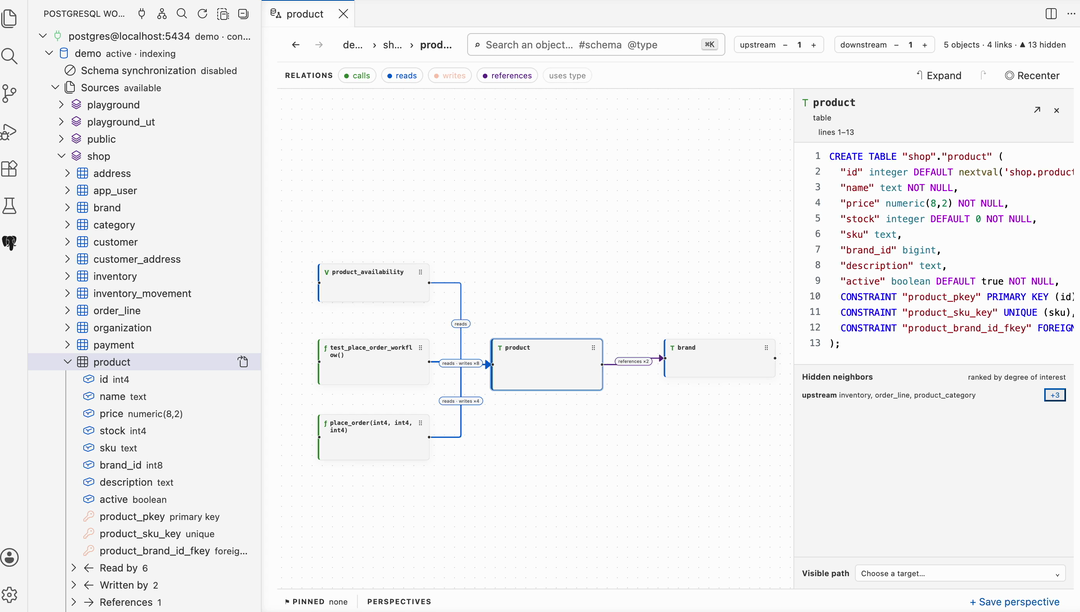
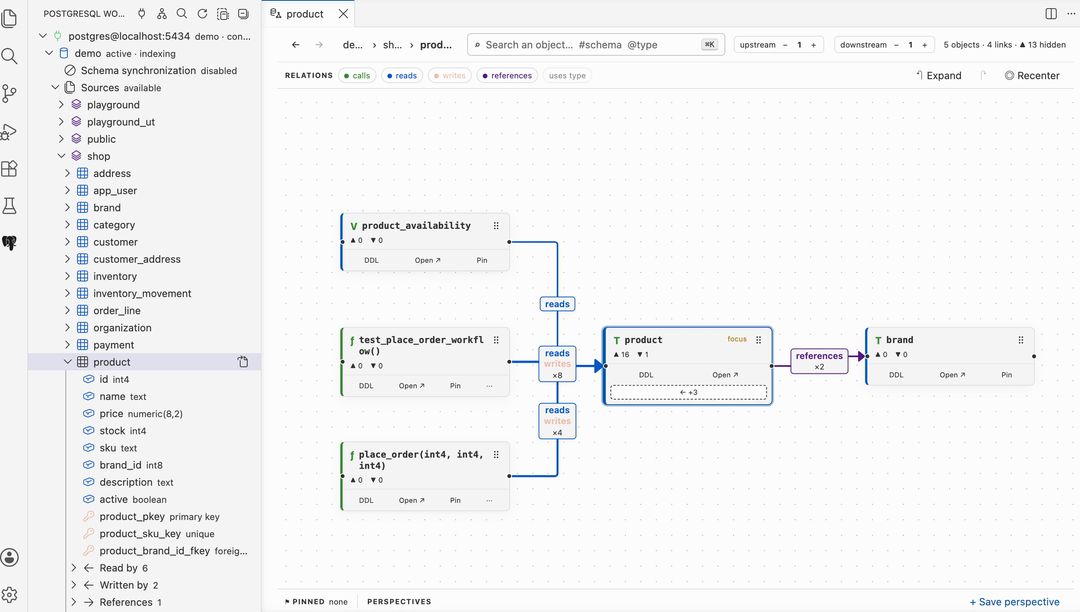
chore: prepare extension 1.1.0

diff --git a/vscode-extension/src/showcase/marketplace.showcase.ts b/vscode-extension/src/showcase/marketplace.showcase.ts
@@ -1,6 +1,6 @@
 import * as assert from "node:assert";
 import { constants } from "node:fs";
-import { access, mkdir, writeFile } from "node:fs/promises";
+import { access, mkdir, realpath, writeFile } from "node:fs/promises";
 import * as net from "node:net";
 import path from "node:path";
 import { TextDecoder } from "node:util";
@@ -16,6 +16,8 @@ import { buildWorkbenchObjects, type WorkbenchObjectModel } from "../workbenchTr
 const SCENE = process.env.POSTGRESQL_WORKBENCH_SHOWCASE_SCENE;
 const CONTROL_DIR = process.env.POSTGRESQL_WORKBENCH_SHOWCASE_CONTROL_DIR;
 const THEME = process.env.POSTGRESQL_WORKBENCH_SHOWCASE_THEME ?? "light";
+const EXPECTED_EXTENSION_PATH = process.env.POSTGRESQL_WORKBENCH_SHOWCASE_EXTENSION_PATH;
+const EXPECTED_EXTENSION_VERSION = process.env.POSTGRESQL_WORKBENCH_SHOWCASE_EXTENSION_VERSION;
 const SERVER = {
   id: "showcase:localhost:5434/demo:postgres",
   name: "postgres@localhost:5434/demo",
@@ -33,11 +35,30 @@ suite("PostgreSQL Workbench Marketplace showcase", function () {
   suiteSetup(async () => {
     assert.ok(SCENE, "POSTGRESQL_WORKBENCH_SHOWCASE_SCENE is required");
     assert.ok(CONTROL_DIR, "POSTGRESQL_WORKBENCH_SHOWCASE_CONTROL_DIR is required");
+    assert.ok(EXPECTED_EXTENSION_PATH, "POSTGRESQL_WORKBENCH_SHOWCASE_EXTENSION_PATH is required");
+    assert.ok(
+      EXPECTED_EXTENSION_VERSION,
+      "POSTGRESQL_WORKBENCH_SHOWCASE_EXTENSION_VERSION is required",
+    );
     assert.ok(await postgresAvailable(), "The PostgreSQL demo is not available on port 5434");
     await forceShowcaseTheme();
 
     const extension = vscode.extensions.getExtension<PlpgsqlExtensionApi>(EXT_ID);
     assert.ok(extension, "PostgreSQL Workbench extension is unavailable");
+    assert.strictEqual(
+      await realpath(extension.extensionPath),
+      await realpath(EXPECTED_EXTENSION_PATH),
+      "The showcase must load PostgreSQL Workbench from the extracted VSIX",
+    );
+    assert.strictEqual(
+      extension.packageJSON.version,
+      EXPECTED_EXTENSION_VERSION,
+      "The showcase must load the configured VSIX version",
+    );
+    process.stdout.write(
+      `Verified showcase extension ${EXT_ID}@${extension.packageJSON.version} ` +
+        `from ${extension.extensionPath}\n`,
+    );
     api = extension.isActive ? extension.exports : await extension.activate();
     await api.connectionManager.store.add(SERVER, "postgres");
     assert.strictEqual(
@@ -229,10 +250,10 @@ function coverageLine(statement: vscode.StatementCoverage): number {
 
 async function debuggerScene(api: PlpgsqlExtensionApi): Promise<void> {
   await resetShopDebugData(api);
-  const extensionUri = vscode.extensions.getExtension(EXT_ID)?.extensionUri;
-  assert.ok(extensionUri);
+  const workspace = vscode.workspace.workspaceFolders?.[0];
+  assert.ok(workspace, "The showcase demo workspace is unavailable");
   const callsite = await vscode.workspace.openTextDocument(
-    vscode.Uri.joinPath(extensionUri, "..", "demo", "debug-me.sql"),
+    vscode.Uri.joinPath(workspace.uri, "debug-me.sql"),
   );
   await vscode.window.showTextDocument(callsite, { preview: false, preserveFocus: false });
 

diff --git a/RELEASING.md b/RELEASING.md
@@ -22,15 +22,15 @@ Marketplace job.
 
 ### Triggers
 
-CI runs automatically for pull requests targeting `main`. It does not run
-automatically for direct pushes to `main`. It can also be started manually:
+CI runs automatically for pushes to `main` and pull requests targeting `main`.
+It can also be started manually:
 
 ```bash
 gh workflow run ci.yml --ref main
 ```
 
-If changes reached `main` without a pull request, run CI manually and wait for
-all jobs to succeed before creating a release tag.
+Wait for all jobs on the exact release-preparation commit to succeed before
+creating a release tag.
 
 ### Jobs
 
@@ -50,9 +50,13 @@ release and artifact-handling actions.
 | `Biome` | Installs root dependencies and runs `npm run check`. |
 | `Type Check` | Type-checks the DAP server and the VS Code extension. |
 | `Unit Tests` | Runs the root Vitest suite. |
-| `Integration Tests` | Starts `galien0xffffff/postgres-debugger:17`, loads the E2E and demo fixtures, runs the DAP tests and the real VS Code integration suite, then activates the extension and Code Moniker in a focused smoke test on the minimum supported VS Code 1.109.0. |
+| `DAP Integration` | Starts `galien0xffffff/postgres-debugger:17` and runs the real PostgreSQL DAP and Workbench integration suite. |
+| `VS Code Technical` | Runs the extension-host integration suite in a real VS Code instance. |
+| `Playwright` | Runs the end-user Workbench, notebook, and debugger journeys in VS Code and retains failure evidence. |
+| `VS Code Compatibility` | Activates the extension and Code Moniker on the minimum supported VS Code 1.109.0. |
 | `EnterpriseDB pldebugger Compatibility` | Builds and tests against the pinned unpatched EnterpriseDB pldebugger implementation. |
-| `Package Artifacts` | Builds the four native production VSIX files, validates their contents and executables, smoke-tests the standalone npm DAP with the matching Code Moniker native package, and uploads one target-specific VSIX artifact per platform. |
+| `Smoke standalone DAP` | Packs, installs, and smoke-tests the standalone npm DAP on Linux, macOS ARM64/x64, and Windows x64. |
+| `Package extension` | Builds, validates, and smoke-tests one target-specific VSIX for Linux x64, macOS ARM64/x64, and Windows x64. |
 
 The integration job uploads VS Code logs even when tests fail. Download the
 `vscode-test-logs` artifact from the failed workflow run before rerunning a
@@ -78,10 +82,10 @@ Start from a clean `main` synchronized with `origin/main`.
 1. Update the extension version and its lockfile:
 
    ```bash
-   npm --prefix vscode-extension version 1.0.1 --no-git-tag-version
+   npm --prefix vscode-extension version 1.1.0 --no-git-tag-version
    ```
 
-2. Add a dated, non-empty `## [1.0.1]` section to
+2. Add a dated, non-empty `## [1.1.0]` section to
    `vscode-extension/CHANGELOG.md`. The release workflow extracts GitHub Release
    notes from this exact heading.
 3. Update user documentation when behavior, requirements, commands, or
@@ -97,6 +101,7 @@ Start from a clean `main` synchronized with `origin/main`.
    npm run test:e2e
    npm run test:e2e:legacy
    npm --prefix vscode-extension run test:min-vscode
+   npm --prefix vscode-extension run test:acceptance
    npm run package:ext
    ```
 
@@ -116,7 +121,7 @@ Install the local artifact into a clean VS Code profile:
 
 ```bash
 code --install-extension \
-  vscode-extension/postgresql-workbench-1.0.1-darwin-arm64.vsix \
+  vscode-extension/postgresql-workbench-1.1.0-darwin-arm64.vsix \
   --force
 ```
 
@@ -131,8 +136,8 @@ Create an annotated tag whose version exactly matches
 `vscode-extension/package.json`:
 
 ```bash
-git tag -a extension-v1.0.1 -m "PostgreSQL Workbench 1.0.1"
-git push origin main extension-v1.0.1
+git tag -a extension-v1.1.0 -m "PostgreSQL Workbench 1.1.0"
+git push origin main extension-v1.1.0
 ```
 
 Pushing the tag starts the `Extension Release` workflow. Its jobs:

diff --git a/docs/MARKETPLACE_MEDIA.md b/docs/MARKETPLACE_MEDIA.md
@@ -45,13 +45,20 @@ side margins without changing the layout used by the showcase scenes.
 
 ## Prepare and exercise the runner
 
-Prepare the PostgreSQL demo, build the extension and compile the showcase code:
+Package the target-specific VSIX named by `docs/marketplace-showcase.json`, then
+prepare the PostgreSQL demo and compile the showcase code:
 
 ```bash
+npm run package:ext
 npm run marketplace:media -- prepare
 ```
 
-Pass `--install` when the normal, user-facing VSIX should also be refreshed:
+Every `run` and `capture` command extracts that VSIX into a temporary directory,
+loads the extracted extension, and verifies its ID, version, and runtime path.
+This prevents a capture from silently exercising the development checkout.
+
+Pass `--install` to package and install the same VSIX into the normal VS Code
+profile as an additional manual preview step:
 
 ```bash
 npm run marketplace:media -- prepare --install

diff --git a/README.md b/README.md
@@ -93,8 +93,12 @@ Build the installable extension with:
 
 ```bash
 npm run package:ext
-code --install-extension vscode-extension/postgresql-workbench-1.0.0.vsix
+code --install-extension \
+  vscode-extension/postgresql-workbench-1.1.0-darwin-arm64.vsix \
+  --force
 ```
+
+Replace `darwin-arm64` with the target produced for your host.
 
 The CI jobs, release checklist, VSIX contract, tag convention, GitHub Release
 workflow, Marketplace publication procedure, and recovery steps are documented

diff --git a/vscode-extension/CHANGELOG.md b/vscode-extension/CHANGELOG.md
@@ -2,6 +2,11 @@
 
 ## Unreleased
 
+## [1.1.0] - 2026-08-13
+
+PostgreSQL Workbench 1.1.0 expands Cockpit and SQL scratchpad workflows and
+hardens recursive PL/pgSQL debugging across local and CI execution paths.
+
 ### PostgreSQL Workbench
 
 - Refined Cockpit graph cards with an exclusive drag handle, border-only
